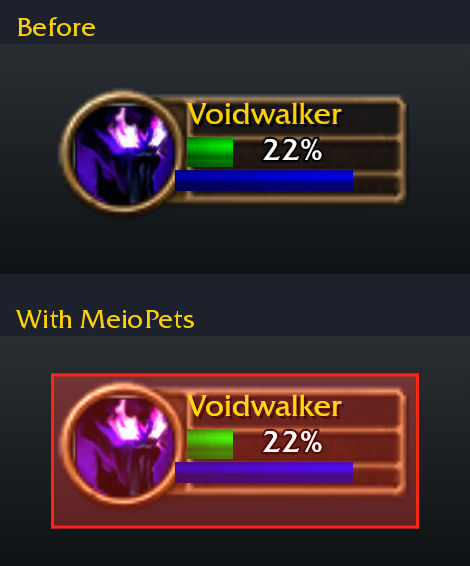
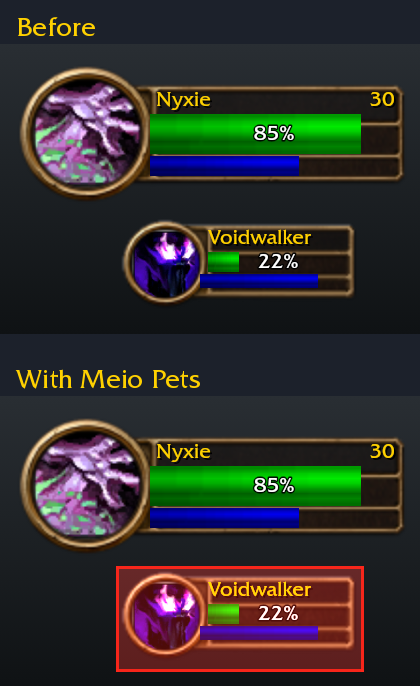
Listing images: player and pet frame hero at 2x, labelled With Meio Pets

diff --git a/README.md b/README.md
@@ -4,8 +4,8 @@ Know when your pet is in trouble: low health, dead, or not back after the fight.
 
 For WoW Forever.
 
-![A Voidwalker at 22% health in a fight: before, only the pet frame; with Meio Pets, a red
-pulse around it](docs/before-after.png)
+![A Voidwalker at 22% health in a fight, under the player frame: before, only the pet frame;
+with Meio Pets, a red pulse around it](docs/before-after.png)
 
 ## What it does
 
